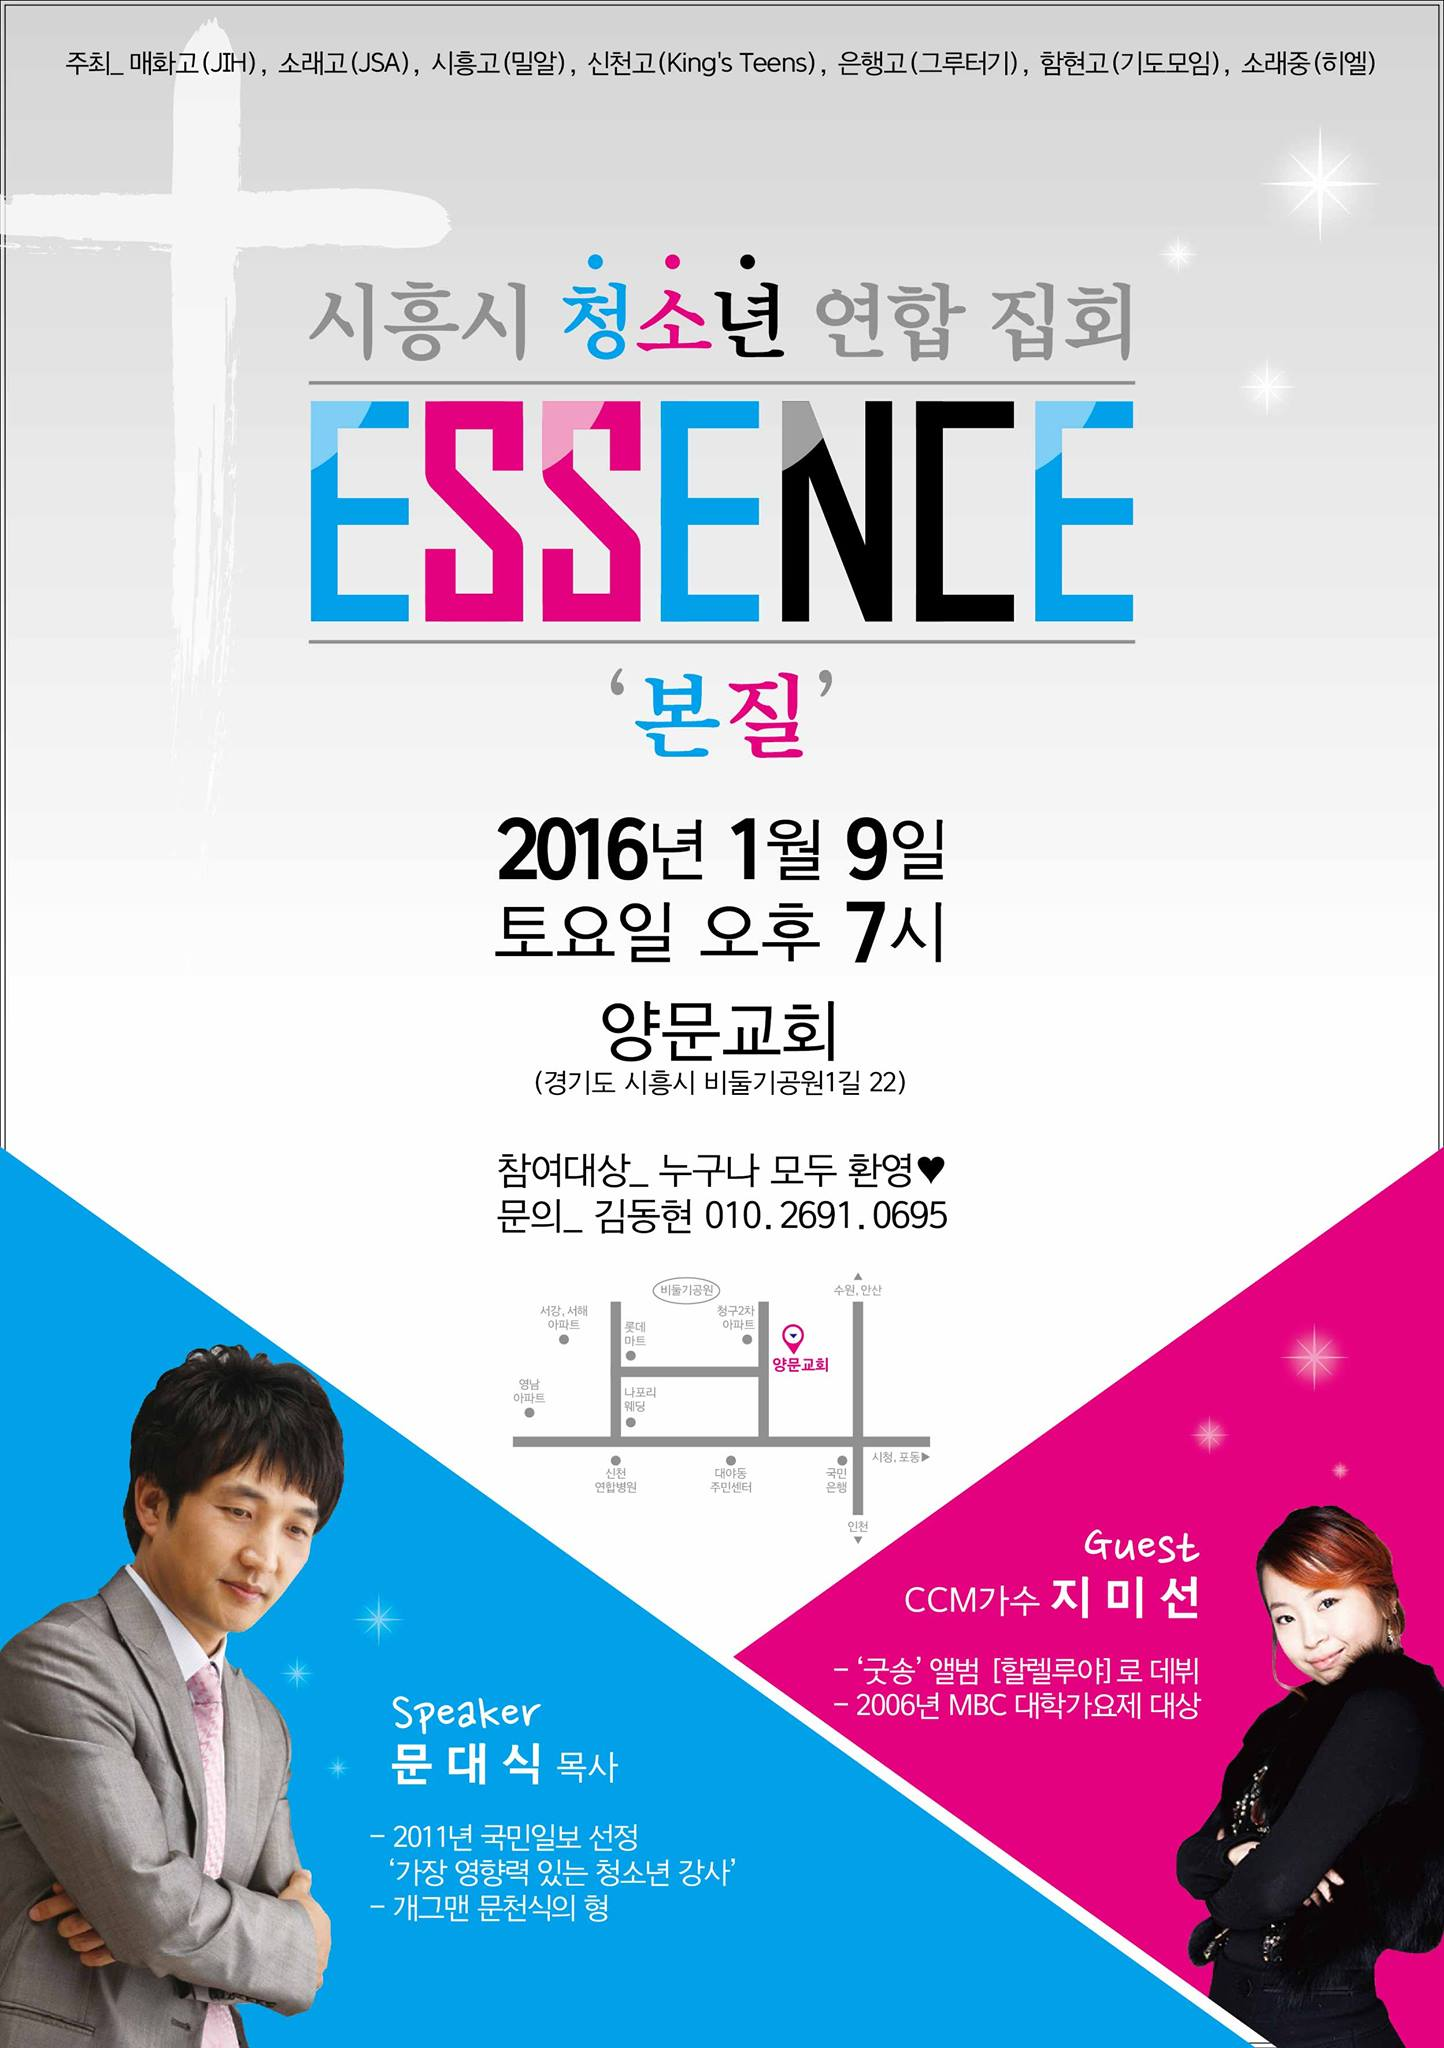
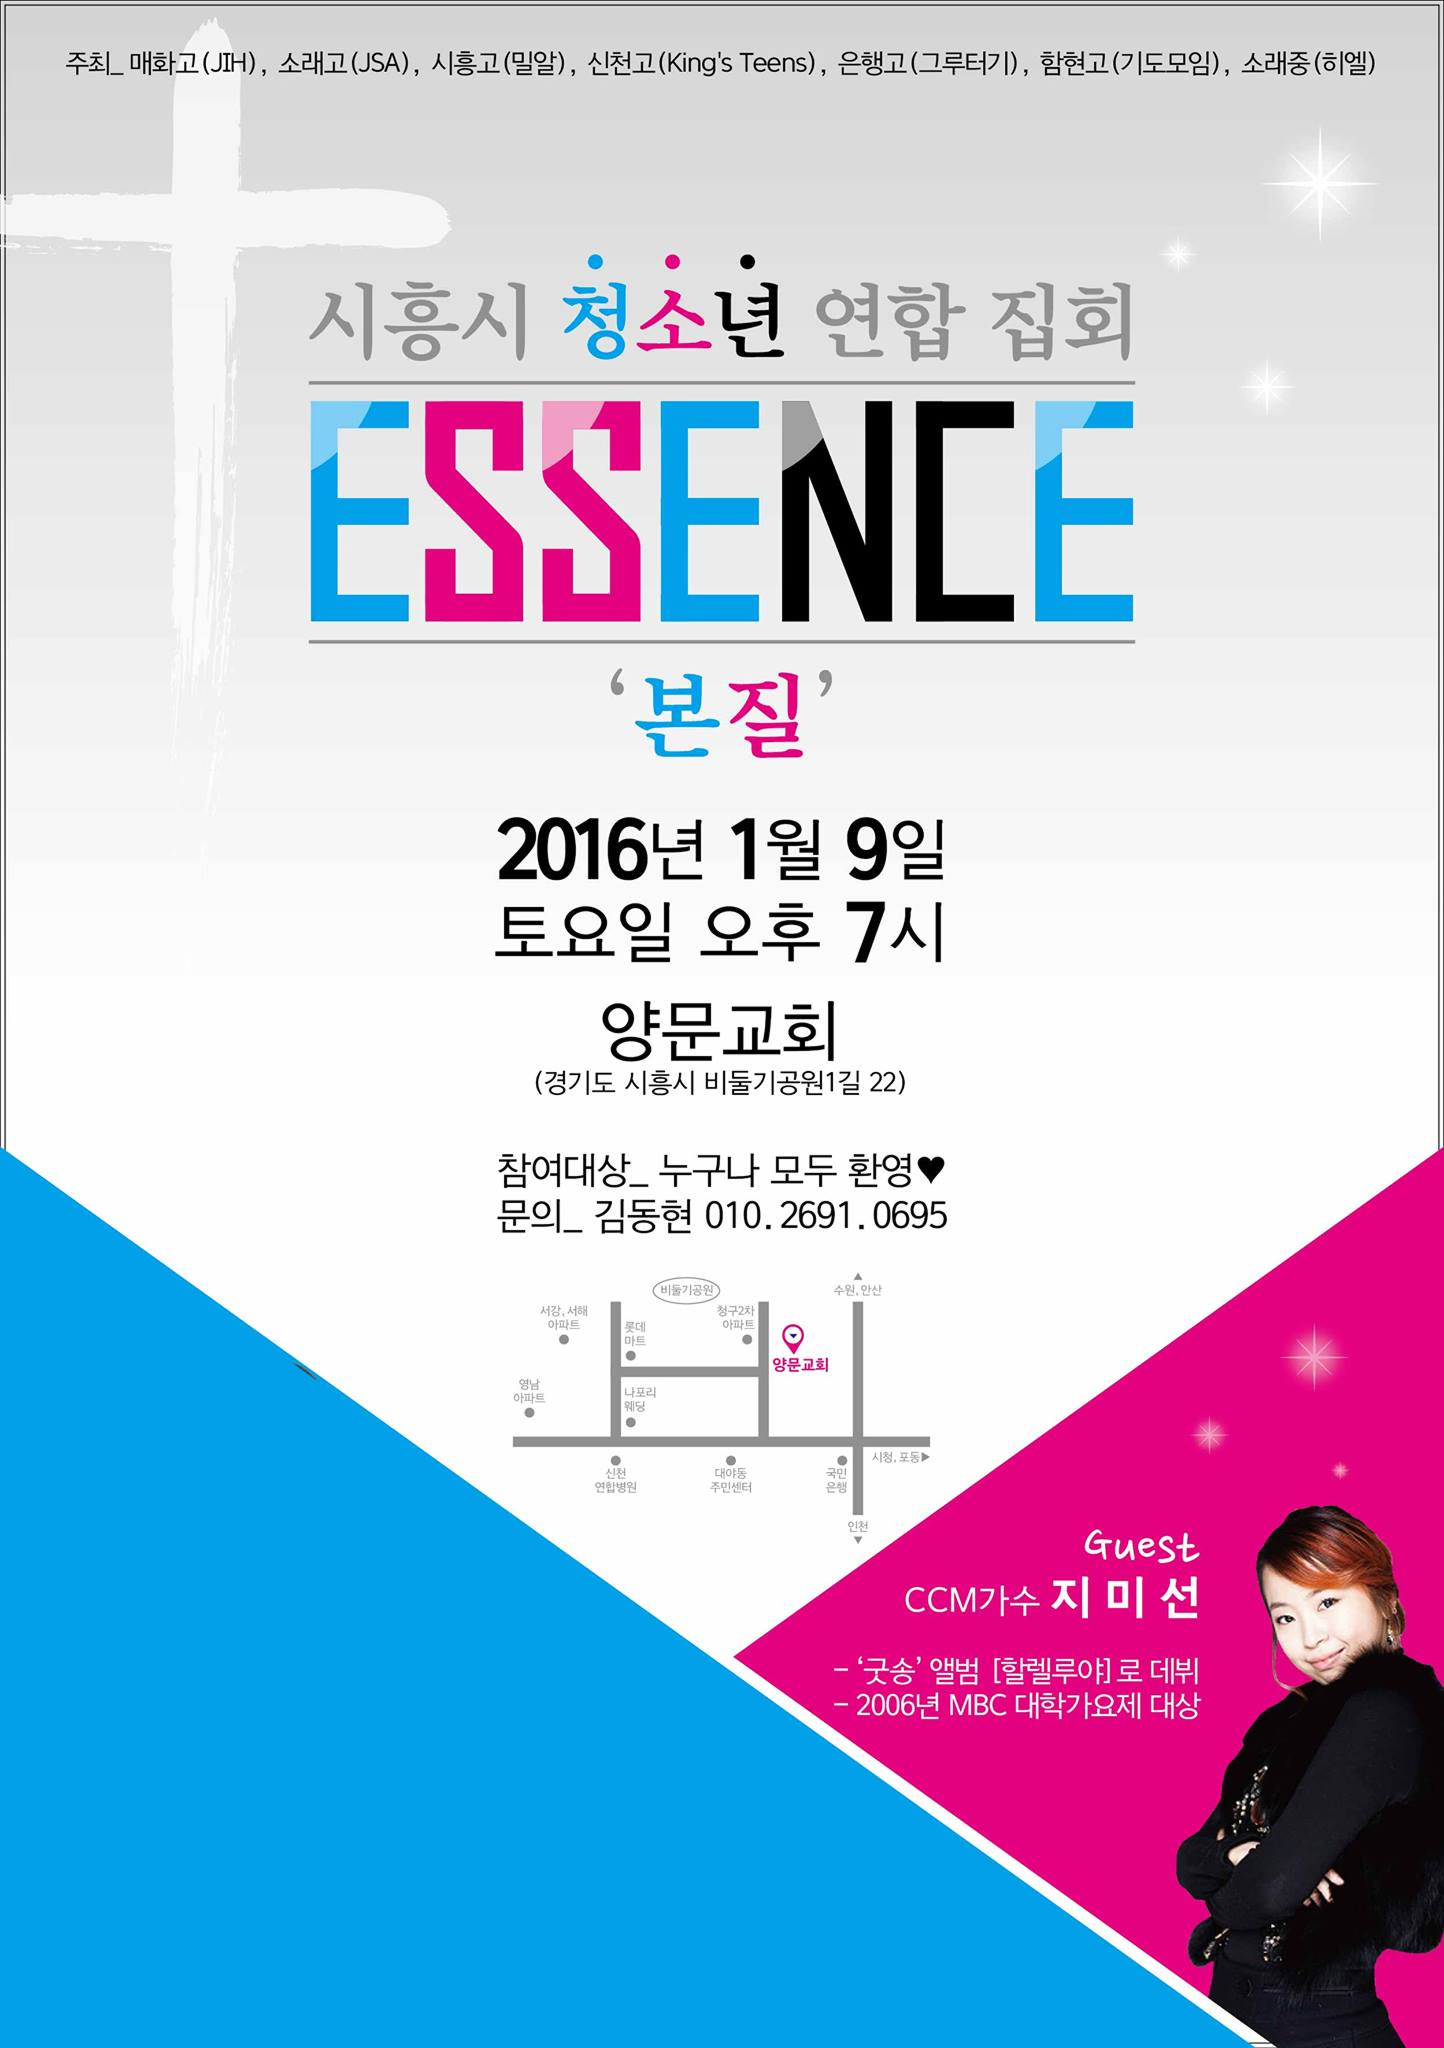
feat: update worship card hover topic and description
각 집회 카드의 hover 정보를 최신 자료 기준으로 교체했습니다.
제목이 있는 회차는 라틴어 부제를 포함한 전체 주제로 갱신하고, 설명은 각 집회의 실제 내용 문구로 반영했습니다.

Changed region(s): [[0.0, 0.6562, 0.2493, 1.0], [0.2493, 0.8125, 0.4986, 0.9375], [0.2493, 0.7812, 0.2805, 0.8125]]

diff --git a/src/Pages/WorshipPage/constants/index.js b/src/Pages/WorshipPage/constants/index.js
@@ -19,8 +19,8 @@ export const worshipList = [
     image: worship1,
     image_alt: "1차 집회 포스터 이미지",
     description:
-      "삶의 본질이 무엇인지 돌아보며, 하나님의 자녀된 우리가 무엇을 잃지 말고 살아가야 할지 묵상하고 찬양하는 시간이 되길 원합니다.",
-    topic: "본질",
+      "그리스도인의 본질이 무엇인지를 돌아보며 삶의 현장인 학교에서 예배자로서의 삶을 살아내길 소망합니다.",
+    topic: "ESSENCE, 본질",
   },
   {
     count: 2,
@@ -30,8 +30,8 @@ export const worshipList = [
     image: worship2,
     image_alt: "2차 집회 포스터 이미지",
     description:
-      "세상이 아닌 하나님 앞에서 서 있는 자신의 모습을 바라봅니다. 어떠한 곳 어떠한 상황에서든 하나님을 기억하며 주님 앞에 서 있는 자가 되길 기도합니다.",
-    topic: "하나님 앞에서",
+      "세상의 시선을 의식하는 것이 아니라 하나님을 바라보고 어떤 상황에서도 하나님 앞에서 하듯 하나님의 뜻을 구하며 나아가는 하나님의 자녀가 되길 소망합니다.",
+    topic: "Coram Deo: 하나님 앞에서",
   },
   {
     count: 3,
@@ -41,7 +41,7 @@ export const worshipList = [
     image: worship3,
     image_alt: "3차 집회 포스터 이미지",
     description:
-      "찬양으로 마음을 따뜻하게 녹여보세요. 우리 함께하는 찬양 집회에서 하나님의 사랑과 영광을 함께 느껴보세요.",
+      "그리스도의 선교적 사명을 감당하며 삶의 현장인 학교에 십자가를 세우는 세대로 거듭나자",
     topic: "학교에 십자가를 세우는 세대",
   },
   {
@@ -52,8 +52,8 @@ export const worshipList = [
     image: worship4,
     image_alt: "4차 집회 포스터 이미지",
     description:
-      "하나님의 영광이 충만한 찬양 집회! 찬양의 소리로 마음을 채우고 하나님의 사랑과 기쁨을 함께 나누는 특별한 시간을 놓치지 마세요.",
-    topic: "오직 예수",
+      "우리 삶의 주인, 우리가 따라가야 할 분은 오직 참 하나님 한 분이라는 것을 고백하며 오직 하나님께 영광 올려 드리길 소망합니다.",
+    topic: "Soli Deo: 오직예수",
   },
   {
     count: 5,
@@ -63,8 +63,8 @@ export const worshipList = [
     image: worship5,
     image_alt: "5차 집회 포스터 이미지",
     description:
-      "찬양으로 마음을 가득 채우는 순간, 하나님의 영광을 함께 나누는 찬양 집회에 여러분을 초대합니다.",
-    topic: "부르심, 낮은 곳으로",
+      "우리를 부르신 하나님의 말씀에 순종하며 예수님이 그러했듯 높아지는 것이 아니라 낮은 곳으로 향하여 섬기는 그리스도인 되길 소망합니다.",
+    topic: "Accito: 부르심, 낮은 곳으로",
   },
   {
     count: 6,
@@ -74,7 +74,7 @@ export const worshipList = [
     image: worship6,
     image_alt: "6차 집회 포스터 이미지",
     description:
-      "찬양의 소리가 우리를 하나로 모으는 곳, 하나님의 사랑과 영광이 넘치는 찬양 집회에 참여하세요.",
+      "하나님의 자녀로서 우리의 정체성을 세상에 외치는 세대. 예수님을 믿는 믿음으로 삶을 사는 우리가 되길 원합니다.",
     topic: "Who Am I?",
   },
   {
@@ -85,7 +85,7 @@ export const worshipList = [
     image: worship7,
     image_alt: "7차 집회 포스터 이미지",
     description:
-      "어떠한 모습이든 변함없는 하나님의 사랑과 은혜를 다시 경험하는 시간이 되길 기도합니다.",
+      "우리가 먼저 예수님과의 첫사랑을 회복하고 다시 한번 거듭날 수 있길 소망합니다.",
     topic: "다시 한번",
   },
   {
@@ -96,7 +96,7 @@ export const worshipList = [
     image: worship8,
     image_alt: "8차 집회 포스터 이미지",
     description:
-      "삶의 중심과 예배의 중심이 바로 서 있는지를 묵상하며 주님을 예배합니다.",
+      "삶의 중심이 어디에 있는지를 돌아보고 삶의 중심이 하나님을 향하길 소망합니다.",
     topic: "중심",
   },
   {
@@ -107,8 +107,8 @@ export const worshipList = [
     image: worship9,
     image_alt: "9차 집회 포스터 이미지",
     description:
-      "말씀과 예배, 찬양과 기도를 통해 삶의 무너진 벽을 다시 세우는 재건의 은혜를 나눕니다.",
-    topic: "재건",
+      "느헤미야가 무너진 성벽을 재건하였듯이 예배의 단을 재건하는 우리 되길 소망합니다.",
+    topic: "재건: 성벽을 다시 세우다",
   },
   {
     count: 10,
@@ -118,8 +118,8 @@ export const worshipList = [
     image: worship10,
     image_alt: "10차 집회 포스터 이미지",
     description:
-      "하나님이 이 시대에 '사사'와 같이 함께하시며 인도하심에 대한 감사를 표현하고, 찬양과 경배를 통해 하나님을 높입니다.",
-    topic: "THE ACTOR",
+      "이 땅에서 사사로 부름받았음을 기억하고, 행동하는 자가 되어 하나님 나라와 그 뜻을 위해 움직이는, 사사와 같은 청년/청소년이 일어나기를 소망합니다.",
+    topic: "THE ACTOR; 이 시대의 사사",
   },
   {
     count: 11,
@@ -129,7 +129,7 @@ export const worshipList = [
     image: worship11,
     image_alt: "11차 집회 포스터 이미지",
     description:
-      "믿음의 공동체 안에서 서로를 돌아보고 격려하며, 사랑과 선행으로 연결되어 혼자가 아닌 ‘함께’ 신앙의 길을 걸어가도록 초대합니다.",
+      "‘함께’의 가치가 흐려지는 시대에서 하나님께서 말씀하신 ‘함께’의 의미를 세우는 세대, 함께 모여 예수님께 가는 세대를 꿈꿉니다.",
     topic: "함께가자",
   },
 ];
